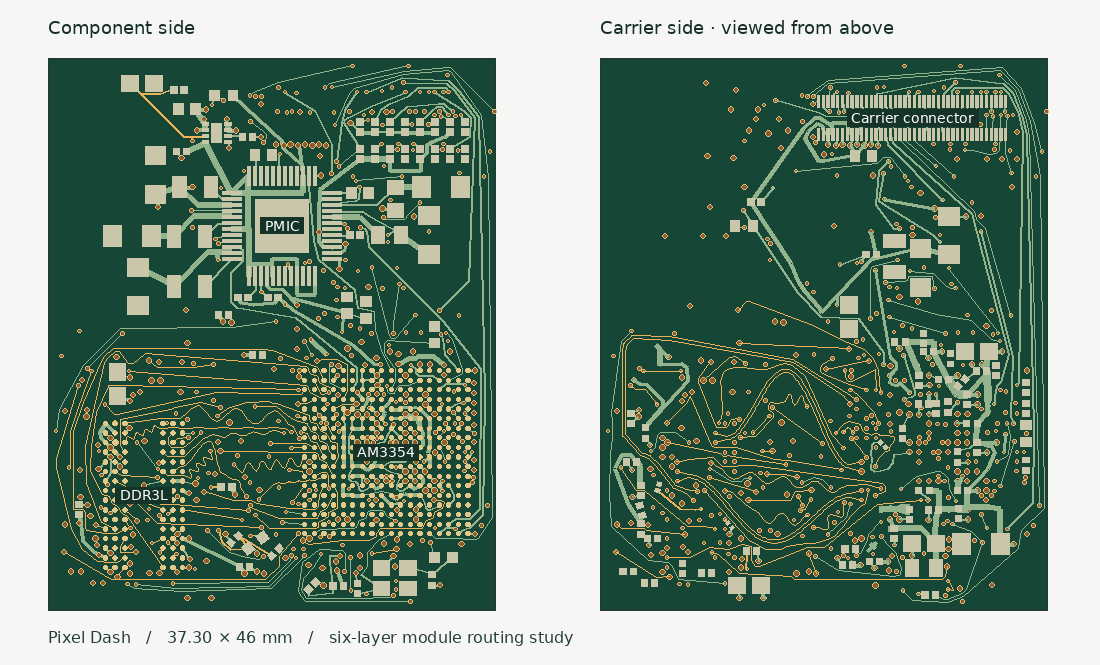
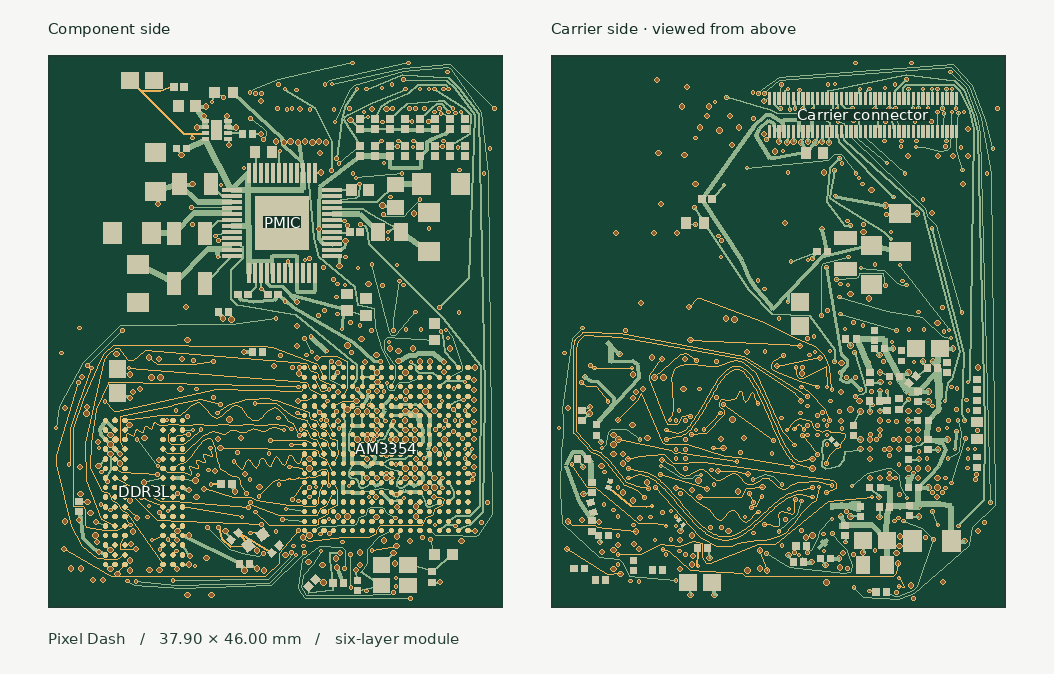
Reconcile drilled opens per net and render the actual module outline

diff --git a/module/render-preview.py b/module/render-preview.py
@@ -1,0 +1,66 @@
+"""Render both outside copper layers in board coordinates using the exported outline."""
+import argparse
+import json
+import math
+from pathlib import Path
+
+from gerbonara import GerberFile
+from PIL import Image, ImageDraw, ImageFont
+
+parser = argparse.ArgumentParser(description=__doc__)
+parser.add_argument("geometry", type=Path)
+parser.add_argument("edge_cuts", type=Path)
+parser.add_argument("output", type=Path)
+args = parser.parse_args()
+objects = json.loads(args.geometry.read_text())
+edges = GerberFile.open(args.edge_cuts).objects
+vertices = [(edge.x1, -edge.y1) for edge in edges] + [(edge.x2, -edge.y2) for edge in edges]
+left, top = map(min, zip(*vertices))
+right, bottom = map(max, zip(*vertices))
+width, height = right - left, bottom - top
+scale = 12
+width_px = math.ceil(width * scale)
+height_px = math.ceil(height * scale)
+margin = 48
+image = Image.new("RGB", (2 * width_px + 3 * margin, height_px + 122), "#f6f7f5")
+draw = ImageDraw.Draw(image)
+font = ImageFont.truetype("DejaVuSans.ttf", 15)
+labels = {"U1": "AM3354", "U_DDR": "DDR3L", "U_PMIC": "PMIC", "J_CARRIER": "Carrier connector"}
+
+for column, (layer, title) in enumerate([("F.Cu", "Component side"), ("B.Cu", "Carrier side · viewed from above")]):
+    offset = margin + column * (width_px + margin)
+    def pixel(point):
+        return offset + (point[0] - left) * scale, 55 + (point[1] - top) * scale
+    draw.text((offset, 20), title, font=font, fill="#152e28")
+    # The module has a rectangular outline. Check for a changed contour before using the bounds.
+    corners = {(left, top), (right, top), (left, bottom), (right, bottom)}
+    assert len(edges) == 4 and set(vertices) == corners
+    draw.rectangle((pixel((left, top)), pixel((right, bottom))), fill="#164636", outline="#203d33", width=2)
+    for item in objects:
+        if item["kind"] == "track" and item["layer"] == layer:
+            color = "#edb15a" if item["net"].startswith("DDR_") else "#92b38c"
+            draw.line([pixel(item["start"]), pixel(item["end"])], fill=color, width=max(1, round(scale * item["width"])))
+        if item["kind"] == "via":
+            x, y = pixel(item["pos"])
+            radius = item["diam"] * scale / 2
+            draw.ellipse((x-radius, y-radius, x+radius, y+radius), fill="#915b30", outline="#dfba75")
+    pads = [item for item in objects if item["kind"] == "pad" and item["layer"] == layer]
+    for pad in pads:
+        x, y = pixel(pad["pos"])
+        w, h = [size * scale / 2 for size in pad["size"]]
+        if pad["shape"] == 0:
+            draw.ellipse((x-w, y-h, x+w, y+h), fill="#e3c989")
+        else:
+            a = math.radians(-pad["rot"])
+            corners = [(x + u*math.cos(a) - v*math.sin(a), y + u*math.sin(a) + v*math.cos(a))
+                       for u, v in ((-w,-h), (-w,h), (w,h), (w,-h))]
+            draw.polygon(corners, fill="#c9c6a9")
+    for ref, label in labels.items():
+        points = [pad["pos"] for pad in pads if pad["ref"] == ref]
+        if points:
+            center = pixel([sum(axis) / len(points) for axis in zip(*points)])
+            draw.rectangle(draw.textbbox(center, label, font=font, anchor="mm"), fill="#163328")
+            draw.text(center, label, font=font, anchor="mm", fill="white")
+draw.text((margin, height_px + 78), f"Pixel Dash   /   {width:.2f} × {height:.2f} mm   /   six-layer module",
+          font=font, fill="#263f36")
+image.save(args.output)

diff --git a/module/check-open-connections.py b/module/check-open-connections.py
@@ -1,6 +1,8 @@
 """List physical opens found by tracing six copper films and the plated drill file."""
 import csv
 import json
+import re
+from collections import Counter
 import sys
 from pathlib import Path
 
@@ -9,12 +11,31 @@ islands = json.loads(Path(islands_path).read_text())
 native = json.loads(Path(drc_path).read_text())["unconnected_items"]
 writer = csv.writer(sys.stdout, lineterminator="\n")
 writer.writerow(("net", "islands", "pads_on_each_island"))
-physical_opens = 0
+physical_by_net = Counter()
 for net, groups in sorted(islands.items()):
     if len(groups) > 1:
-        physical_opens += len(groups) - 1
+        physical_by_net[net] = len(groups) - 1
         writer.writerow((net, len(groups), " | ".join(" ".join(sorted(g)) for g in sorted(groups))))
 
+native_by_net = Counter()
+for finding in native:
+    nets = set()
+    for item in finding["items"]:
+        match = re.search(r"\[([^\]]+)\]", item["description"])
+        if not match:
+            raise SystemExit(f"Cannot resolve the native net on {item['description']}")
+        nets.add(match.group(1))
+    if len(nets) != 1:
+        raise SystemExit(f"Ambiguous native missing connection: {sorted(nets)}")
+    native_by_net[nets.pop()] += 1
+
+if native_by_net != physical_by_net:
+    for net in sorted(native_by_net.keys() | physical_by_net.keys()):
+        if native_by_net[net] != physical_by_net[net]:
+            print(f"{net}: {physical_by_net[net]} drilled, {native_by_net[net]} native", file=sys.stderr)
+    raise SystemExit("Drilled and native open connections differ by net")
+
+physical_opens = sum(physical_by_net.values())
 print(f"{physical_opens} missing physical joins, {len(native)} native unconnected items", file=sys.stderr)
 if "--require-connected" in options and (physical_opens or native):
     raise SystemExit("Whole-module connectivity is incomplete")
